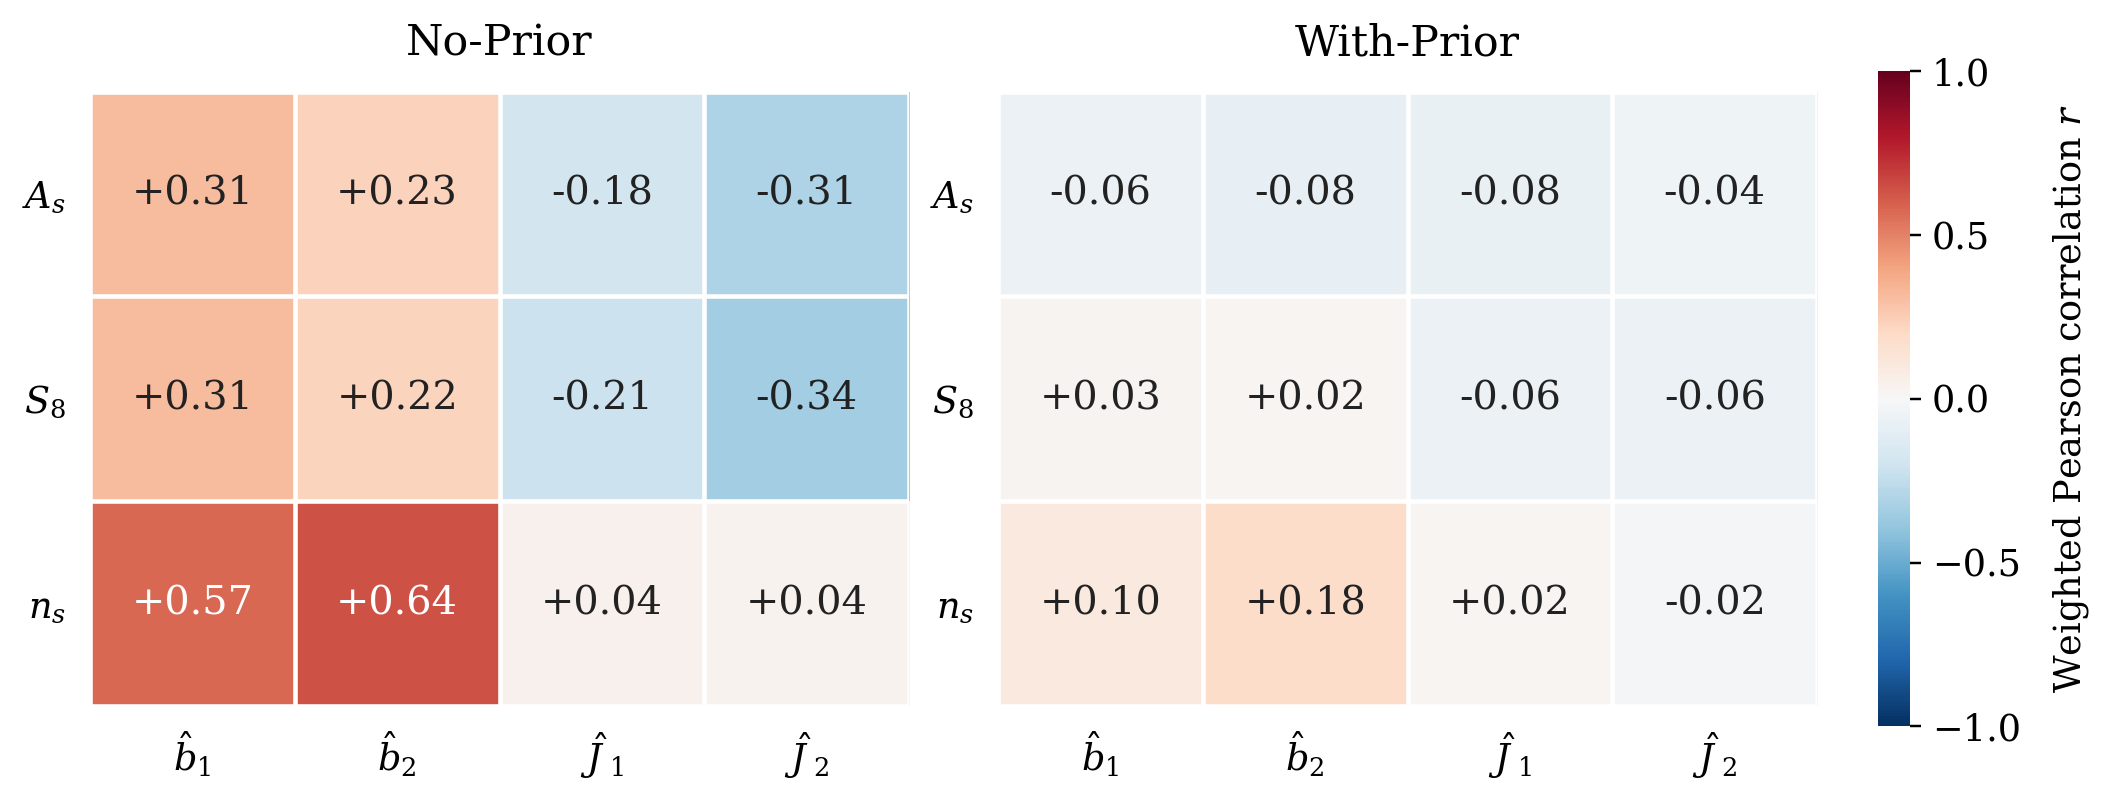
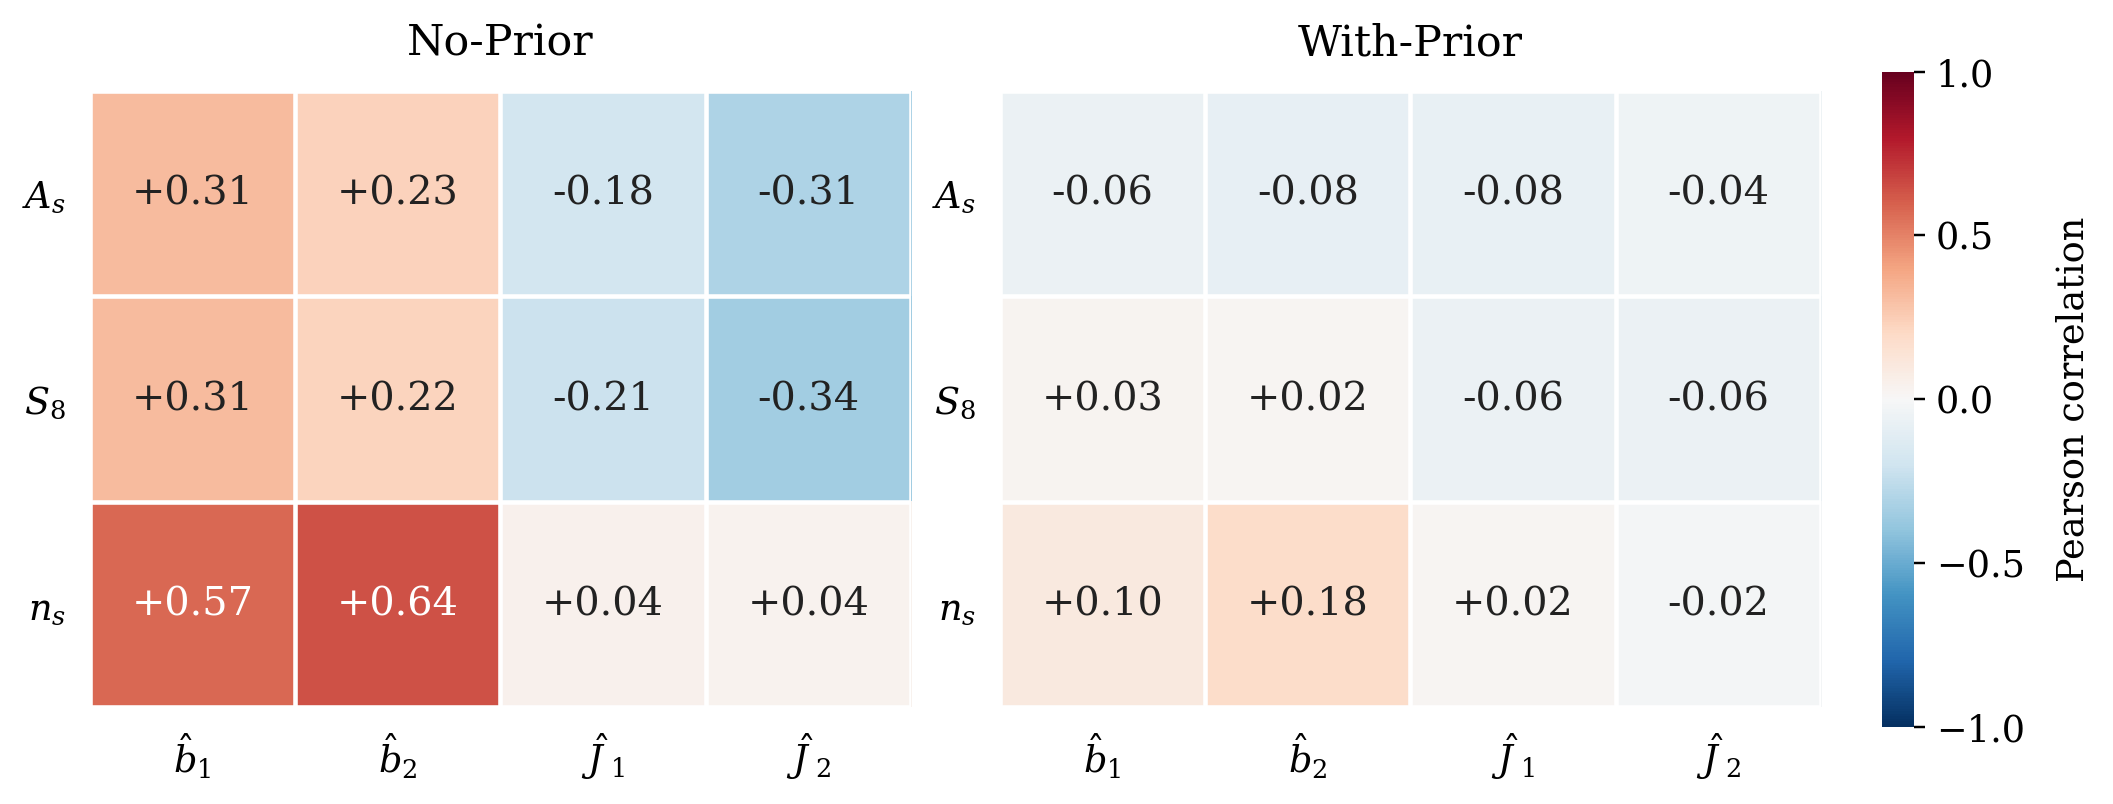
Simplify correlation heatmap label

diff --git a/post_process/plot_correlations.py b/post_process/plot_correlations.py
@@ -212,7 +212,7 @@ def heatmap():
             ax.text(j, i, f"{value:+.2f}", ha="center", va="center",
                     fontsize=13, color="white" if abs(value) > 0.55 else "#222222")
     colorbar = fig.colorbar(im, ax=axes, shrink=0.78, pad=0.035)
-    colorbar.set_label(r"Weighted Pearson correlation $r$", labelpad=10)
+    colorbar.set_label(r"Pearson correlation", labelpad=10)
     colorbar.set_ticks([-1, -0.5, 0, 0.5, 1])
     colorbar.outline.set_visible(False)
     for suffix in ["png", "pdf"]:
